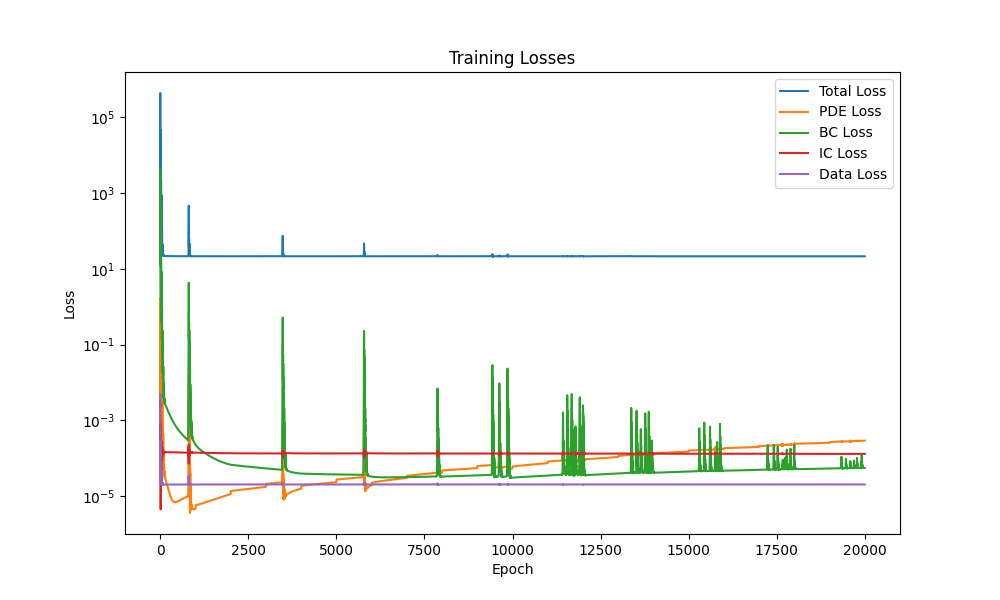
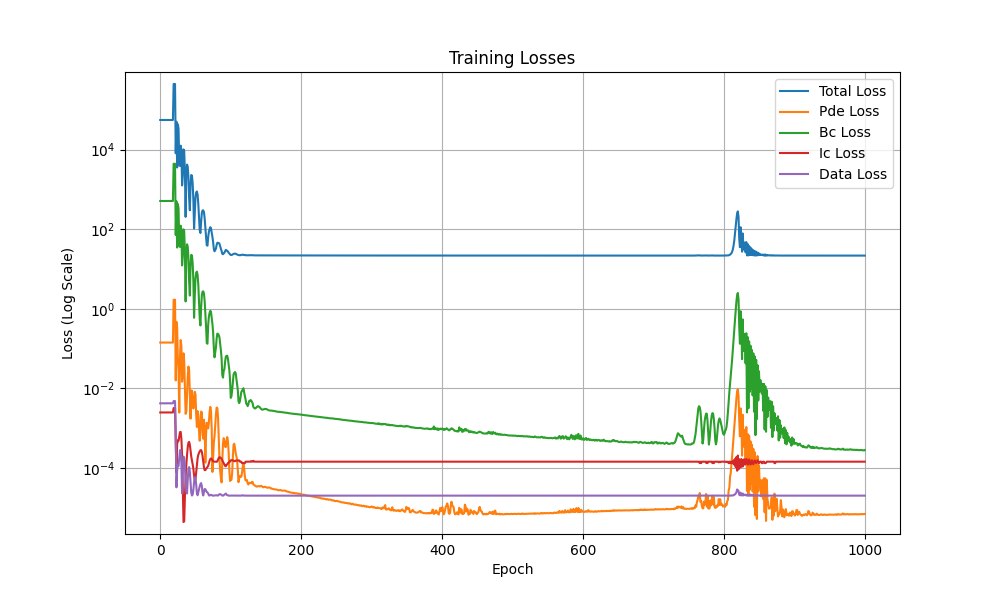
corrected loss in plotting.py

diff --git a/src/app.py b/src/app.py
@@ -12,6 +12,7 @@ from src.models.pinn import PINN
 from src.utils.training import compute_pde_residual
 from src.utils.plotting import plot_losses, plot_reservoir_data, plot_pressure_slice, animate_pressure
 from torch.optim.lr_scheduler import StepLR
+from torch.cuda.amp import autocast, GradScaler
 
 # Load environment variables
 load_dotenv()
@@ -139,6 +140,7 @@ except Exception as e:
 def train_model_with_updates(model, x_r, y_r, z_r, t_r, x_b, y_b, z_b, t_b, x_i, y_i, z_i, t_i, x_d, y_d, z_d, t_d, p_d, epochs, phi, k, mu, ct, q0, well_pos, p_scale, p_base):
     optimizer = torch.optim.Adam(model.parameters(), lr=0.001)
     scheduler = StepLR(optimizer, step_size=2000, gamma=0.5)
+    scaler = GradScaler()  # For mixed precision training
     losses = {'pde': [], 'bc': [], 'ic': [], 'data': [], 'total': []}
     
     with mlflow.start_run() as run:
@@ -162,50 +164,65 @@ def train_model_with_updates(model, x_r, y_r, z_r, t_r, x_b, y_b, z_b, t_b, x_i,
         for epoch in range(epochs):
             optimizer.zero_grad()
             
-            # PDE residual loss
-            residual = compute_pde_residual(model, x_r, y_r, z_r, t_r, phi, k, mu, ct, q0, well_pos, p_scale, p_base)
-            loss_pde = torch.mean(residual**2)
-            
-            # Boundary condition loss
-            inputs_b = torch.stack([x_b, y_b, z_b, t_b], dim=1).requires_grad_(True).to(x_r.device)
-            p_b = model(inputs_b, p_scale, p_base)
-            p_grad_b = torch.autograd.grad(p_b, inputs_b, grad_outputs=torch.ones_like(p_b), create_graph=True)[0]
-            p_x_b, p_y_b, p_z_b = p_grad_b[:, 0], p_grad_b[:, 1], p_grad_b[:, 2]
-            mask_x0 = (x_b == 0)
-            mask_x1 = (x_b == 1)
-            loss_bc_x = torch.mean(p_x_b[mask_x0]**2) + torch.mean(p_x_b[mask_x1]**2)
-            mask_y0 = (y_b == 0)
-            mask_y1 = (y_b == 1)
-            loss_bc_y = torch.mean(p_y_b[mask_y0]**2) + torch.mean(p_y_b[mask_y1]**2)
-            mask_z0 = (z_b == 0)
-            mask_z1 = (z_b == 1)
-            loss_bc_z = torch.mean(p_z_b[mask_z0]**2) + torch.mean(p_z_b[mask_z1]**2)
-            loss_bc = loss_bc_x + loss_bc_y + loss_bc_z
-            
-            # Initial condition loss
-            inputs_i = torch.stack([x_i, y_i, z_i, t_i], dim=1).to(x_r.device)
-            p_i = model(inputs_i, p_scale, p_base)
-            loss_ic = torch.mean(((p_i - p_base) / p_scale)**2)
-            
-            # Data loss
-            inputs_d = torch.stack([x_d, y_d, z_d, t_d], dim=1).to(x_r.device)
-            p_d_pred = model(inputs_d, p_scale, p_base)
-            loss_data = torch.mean(((p_d_pred - p_d) / p_scale)**2)
-            
-            # Total loss
-            loss = loss_pde + 100 * loss_bc + 10000 * loss_ic + 1000000 * loss_data
-            
-            # Backpropagation
-            loss.backward()
-            optimizer.step()
+            # Mixed precision training
+            with autocast():
+                # PDE residual loss
+                residual = compute_pde_residual(model, x_r, y_r, z_r, t_r, phi, k, mu, ct, q0, well_pos, p_scale, p_base)
+                loss_pde = torch.mean(residual**2)
+                
+                # Boundary condition loss
+                inputs_b = torch.stack([x_b, y_b, z_b, t_b], dim=1).requires_grad_(True).to(x_r.device)
+                p_b = model(inputs_b, p_scale, p_base)
+                p_grad_b = torch.autograd.grad(p_b, inputs_b, grad_outputs=torch.ones_like(p_b), create_graph=True)[0]
+                p_x_b, p_y_b, p_z_b = p_grad_b[:, 0], p_grad_b[:, 1], p_grad_b[:, 2]
+                mask_x0 = (x_b == 0)
+                mask_x1 = (x_b == 1)
+                loss_bc_x = torch.mean(p_x_b[mask_x0]**2) + torch.mean(p_x_b[mask_x1]**2)
+                mask_y0 = (y_b == 0)
+                mask_y1 = (y_b == 1)
+                loss_bc_y = torch.mean(p_y_b[mask_y0]**2) + torch.mean(p_y_b[mask_y1]**2)
+                mask_z0 = (z_b == 0)
+                mask_z1 = (z_b == 1)
+                loss_bc_z = torch.mean(p_z_b[mask_z0]**2) + torch.mean(p_z_b[mask_z1]**2)
+                loss_bc = loss_bc_x + loss_bc_y + loss_bc_z
+                
+                # Initial condition loss
+                inputs_i = torch.stack([x_i, y_i, z_i, t_i], dim=1).to(x_r.device)
+                p_i = model(inputs_i, p_scale, p_base)
+                loss_ic = torch.mean(((p_i - p_base) / p_scale)**2)
+                
+                # Data loss
+                inputs_d = torch.stack([x_d, y_d, z_d, t_d], dim=1).to(x_r.device)
+                p_d_pred = model(inputs_d, p_scale, p_base)
+                loss_data = torch.mean(((p_d_pred - p_d) / p_scale)**2)
+                
+                # Total loss with clamping to prevent NaN/inf
+                loss = loss_pde + 100 * loss_bc + 10000 * loss_ic + 1000000 * loss_data
+                loss = torch.clamp(loss, min=-1e10, max=1e10)  # Prevent numerical overflow
+
+            # Check for NaN or inf in losses
+            if torch.isnan(loss) or torch.isinf(loss):
+                print(f"Epoch {epoch + 1}: Loss is NaN or inf, skipping...")
+                continue
+
+            # Backpropagation with gradient scaling
+            scaler.scale(loss).backward()
+            scaler.step(optimizer)
+            scaler.update()
             scheduler.step()
             
-            # Store losses
-            losses['pde'].append(loss_pde.item())
-            losses['bc'].append(loss_bc.item())
-            losses['ic'].append(loss_ic.item())
-            losses['data'].append(loss_data.item())
-            losses['total'].append(loss.item())
+            # Store losses with NaN checking
+            loss_pde_val = loss_pde.item() if torch.isfinite(loss_pde) else 0.0
+            loss_bc_val = loss_bc.item() if torch.isfinite(loss_bc) else 0.0
+            loss_ic_val = loss_ic.item() if torch.isfinite(loss_ic) else 0.0
+            loss_data_val = loss_data.item() if torch.isfinite(loss_data) else 0.0
+            loss_total_val = loss.item() if torch.isfinite(loss) else 0.0
+            
+            losses['pde'].append(loss_pde_val)
+            losses['bc'].append(loss_bc_val)
+            losses['ic'].append(loss_ic_val)
+            losses['data'].append(loss_data_val)
+            losses['total'].append(loss_total_val)
             
             # Update GUI and log to MLflow every 1000 epochs
             if (epoch + 1) % 1000 == 0 or epoch == 0:
@@ -214,17 +231,17 @@ def train_model_with_updates(model, x_r, y_r, z_r, t_r, x_b, y_b, z_b, t_b, x_i,
                 epoch_placeholder.write(f"Epoch: {epoch + 1}/{epochs}")
                 loss_placeholder.write(
                     f"**Losses**:\n"
-                    f"- Total: {loss.item():.6f}\n"
-                    f"- PDE: {loss_pde.item():.6f}\n"
-                    f"- BC: {loss_bc.item():.6f}\n"
-                    f"- IC: {loss_ic.item():.6f}\n"
-                    f"- Data: {loss_data.item():.6f}"
+                    f"- Total: {loss_total_val:.6f}\n"
+                    f"- PDE: {loss_pde_val:.6f}\n"
+                    f"- BC: {loss_bc_val:.6f}\n"
+                    f"- IC: {loss_ic_val:.6f}\n"
+                    f"- Data: {loss_data_val:.6f}"
                 )
-                mlflow.log_metric("total_loss", loss.item(), step=epoch + 1)
-                mlflow.log_metric("pde_loss", loss_pde.item(), step=epoch + 1)
-                mlflow.log_metric("bc_loss", loss_bc.item(), step=epoch + 1)
-                mlflow.log_metric("ic_loss", loss_ic.item(), step=epoch + 1)
-                mlflow.log_metric("data_loss", loss_data.item(), step=epoch + 1)
+                mlflow.log_metric("total_loss", loss_total_val, step=epoch + 1)
+                mlflow.log_metric("pde_loss", loss_pde_val, step=epoch + 1)
+                mlflow.log_metric("bc_loss", loss_bc_val, step=epoch + 1)
+                mlflow.log_metric("ic_loss", loss_ic_val, step=epoch + 1)
+                mlflow.log_metric("data_loss", loss_data_val, step=epoch + 1)
                 run_id_placeholder.write(f"MLflow Run ID: {run.info.run_id}")
             
             # Adaptive sampling
@@ -235,6 +252,11 @@ def train_model_with_updates(model, x_r, y_r, z_r, t_r, x_b, y_b, z_b, t_b, x_i,
                 y_r = torch.cat([y_r, y_r[top_indices]])
                 z_r = torch.cat([z_r, z_r[top_indices]])
                 t_r = torch.cat([t_r, t_r[top_indices]])
+        
+        # Debug: Print losses before plotting
+        print("Losses before plotting:", {key: len(losses[key]) for key in losses})
+        for key in losses:
+            print(f"{key} loss sample: {losses[key][:5]} ... {losses[key][-5:]}")
         
         # Save model and loss plot as artifacts
         model_path = "reservoir_pinn.pth"
@@ -389,7 +411,7 @@ if st.session_state.trained:
                     inputs = torch.tensor([[x, y, z, t]], dtype=torch.float32).to(device)
                     with torch.no_grad():
                         pressure = st.session_state.model(inputs, st.session_state.p_scale, st.session_state.p_base).item()
-                    st.write(f"Pressure at x = {x}, y = {y}, z={z}, t={t}: \n **{pressure:.2f} Pa**")
+                    st.write(f"Pressure at x={x}, y={y}, z={z}, t={t}: {pressure:.2f} Pa")
                 else:
                     st.write(result.get('response', 'Could not extract coordinates.'))
             else:

diff --git a/src/utils/plotting.py b/src/utils/plotting.py
@@ -7,22 +7,63 @@ from PIL import Image
 import torch
 
 def plot_losses(losses):
+    # Handle empty or invalid data
+    if not losses or not all(len(losses[key]) > 0 for key in losses):
+        fig, ax = plt.subplots(figsize=(10, 6))
+        ax.text(0.5, 0.5, "No loss data available", fontsize=12, ha='center', va='center')
+        ax.set_xlabel('Epoch')
+        ax.set_ylabel('Loss')
+        ax.set_title('Training Losses')
+        buf = io.BytesIO()
+        plt.savefig(buf, format='png')
+        plt.close(fig)
+        buf.seek(0)
+        return buf
+
+    # Convert lists to numpy arrays for easier handling
+    loss_types = ['total', 'pde', 'bc', 'ic', 'data']
+    max_len = max(len(losses[key]) for key in loss_types if len(losses[key]) > 0)
+    epochs = np.arange(max_len)
+
     fig, ax = plt.subplots(figsize=(10, 6))
-    ax.plot(losses['total'], label='Total Loss')
-    ax.plot(losses['pde'], label='PDE Loss')
-    ax.plot(losses['bc'], label='BC Loss')
-    ax.plot(losses['ic'], label='IC Loss')
-    ax.plot(losses['data'], label='Data Loss')
+    for key in loss_types:
+        if len(losses[key]) > 0:
+            # Pad shorter lists with NaN to match max length
+            data = np.array(losses[key])
+            if len(data) < max_len:
+                data = np.pad(data, (0, max_len - len(data)), mode='constant', constant_values=np.nan)
+            # Plot with log scale for better visibility
+            ax.plot(epochs, data, label=key.capitalize() + ' Loss')
+    
     ax.set_xlabel('Epoch')
-    ax.set_ylabel('Loss')
+    ax.set_ylabel('Loss (Log Scale)')
     ax.set_title('Training Losses')
+    ax.set_yscale('log')  # Use logarithmic scale
     ax.legend()
     ax.grid(True)
+    
+    # Set reasonable y-axis limits to avoid empty plots
+    ax.set_ylim(custom_ylim(losses))
+    
     buf = io.BytesIO()
     plt.savefig(buf, format='png')
     plt.close(fig)
     buf.seek(0)
     return buf
+
+def custom_ylim(losses):
+    # Compute reasonable y-axis limits based on non-NaN, non-inf values
+    all_losses = []
+    for key in losses:
+        if len(losses[key]) > 0:
+            data = np.array(losses[key])
+            data = data[np.isfinite(data)]  # Exclude NaN and inf
+            all_losses.extend(data)
+    if not all_losses:
+        return 1e-3, 1e3  # Default range if no valid data
+    min_val = max(min(all_losses), 1e-10)  # Avoid zero or negative for log scale
+    max_val = max(all_losses)
+    return min_val * 0.5, max_val * 2
 
 def plot_reservoir_data(data_df):
     fig = plt.figure(figsize=(8, 6))
@@ -65,11 +106,11 @@ def plot_pressure_slice(model, t_val, data_df, device, z_slice=0.5, p_scale=1000
     return buf
 
 def animate_pressure(model, data_df, device, z_slice=0.5, p_scale=1000.0, p_base=1000.0, save_format='gif'):
-    x = np.linspace(0, 1, 50)
-    y = np.linspace(0, 1, 50)
+    x = np.linspace(0, 1, 100)
+    y = np.linspace(0, 1, 100)
     X, Y = np.meshgrid(x, y)
     Z = np.full_like(X, z_slice)
-    times = np.linspace(0, 1, 50)  # 50 frames from t=0 to t=1
+    times = np.linspace(0, 1, 50)
 
     fig, ax = plt.subplots(figsize=(8, 6))
     inputs = torch.tensor(np.stack([X.flatten(), Y.flatten(), Z.flatten(), np.zeros_like(X.flatten())], axis=1), 
@@ -82,8 +123,9 @@ def animate_pressure(model, data_df, device, z_slice=0.5, p_scale=1000.0, p_base
         with torch.no_grad():
             P = model(inputs, p_scale, p_base).cpu().numpy().reshape(X.shape)
         contour = ax.contourf(X, Y, P, levels=20, cmap="viridis")
-        ax.scatter(data_df['x'], data_df['y'], c="red", label="Data points (projected)")
-        ax.set_title(f"Pressure Slice at z={z_slice}, t={t_val:.2f}")
+        mask = np.abs(data_df['z'] - z_slice) < 0.1
+        ax.scatter(data_df['x'][mask], data_df['y'][mask], c="red", label="Data points")
+        ax.set_title(f"Pressure at z={z_slice:.2f}, t={t_val:.2f}")
         ax.set_xlabel("x")
         ax.set_ylabel("y")
         ax.legend()
@@ -92,10 +134,7 @@ def animate_pressure(model, data_df, device, z_slice=0.5, p_scale=1000.0, p_base
         return contour,
 
     anim = FuncAnimation(fig, update, frames=len(times), interval=100, blit=False)
-    filename = 'pressure_animation.gif' if save_format == 'gif' else 'pressure_animation.mp4'
-    if save_format == 'gif':
-        anim.save(filename, writer='pillow', fps=10)
-    else:
-        anim.save(filename, writer='ffmpeg', fps=10)
+    filename = 'pressure_animation.gif'
+    anim.save(filename, writer='pillow', fps=10)
     plt.close(fig)
     return filename
